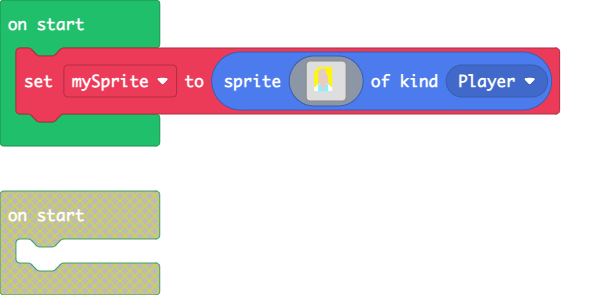
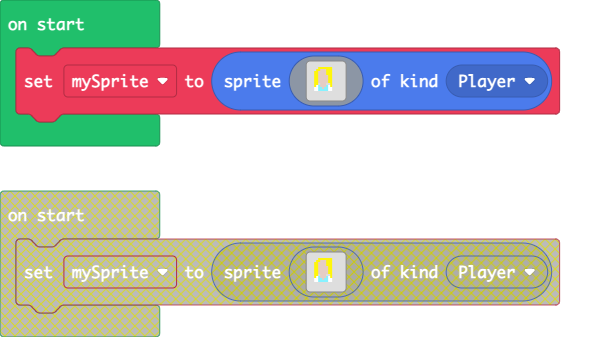
Update pxt.json, main.blocks, main.ts

diff --git a/main.ts b/main.ts
@@ -1,0 +1,18 @@
+let mySprite = sprites.create(img`
+    . . . . . . . . . . . . . . . . 
+    . . . . 5 5 5 5 5 5 5 . . . . . 
+    . . . 5 5 d d d 5 5 5 . . . . . 
+    . . 5 5 d d d d 5 5 5 . . . . . 
+    . . 5 5 d d d d 5 5 5 . . . . . 
+    . . 5 5 d d d d d 5 5 . . . . . 
+    . . 5 5 d d d d d 5 5 . . . . . 
+    . . 5 5 d d d d d 5 5 . . . . . 
+    . . 5 5 d d d d d 5 5 . . . . . 
+    . . 5 5 . d d d . . 5 . . . . . 
+    . . 5 1 9 d d d 9 1 5 . . . . . 
+    . . 1 1 9 9 d 9 9 1 1 . . . . . 
+    . . 1 1 9 9 9 9 9 1 1 . . . . . 
+    . . . . . . . . . . . . . . . . 
+    . . . . . . . . . . . . . . . . 
+    . . . . . . . . . . . . . . . . 
+    `, SpriteKind.Player)
